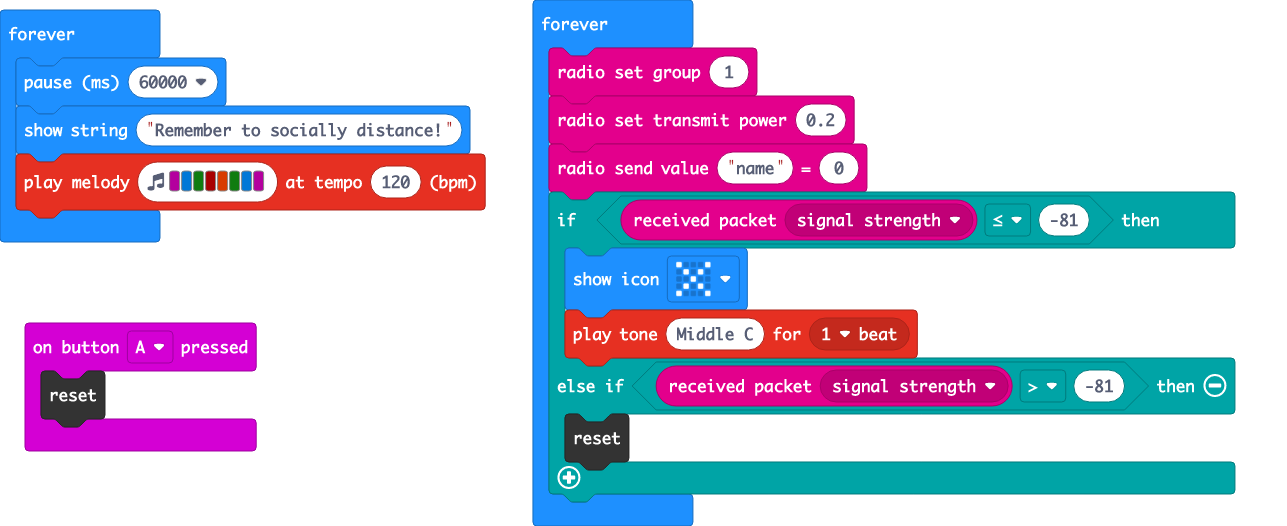
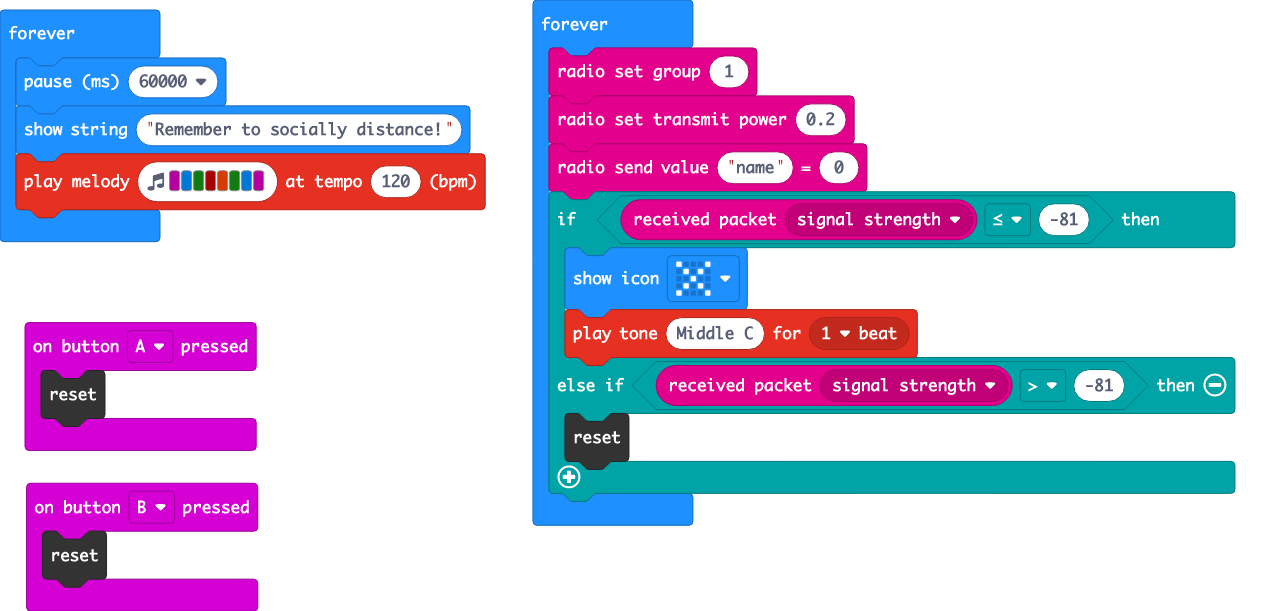
Update main.blocks, main.ts

diff --git a/main.ts b/main.ts
@@ -1,6 +1,9 @@
 input.onButtonPressed(Button.A, function () {
     control.reset()
 })
+input.onButtonPressed(Button.B, function () {
+    control.reset()
+})
 basic.forever(function () {
     basic.pause(60000)
     basic.showString("Remember to socially distance!")
